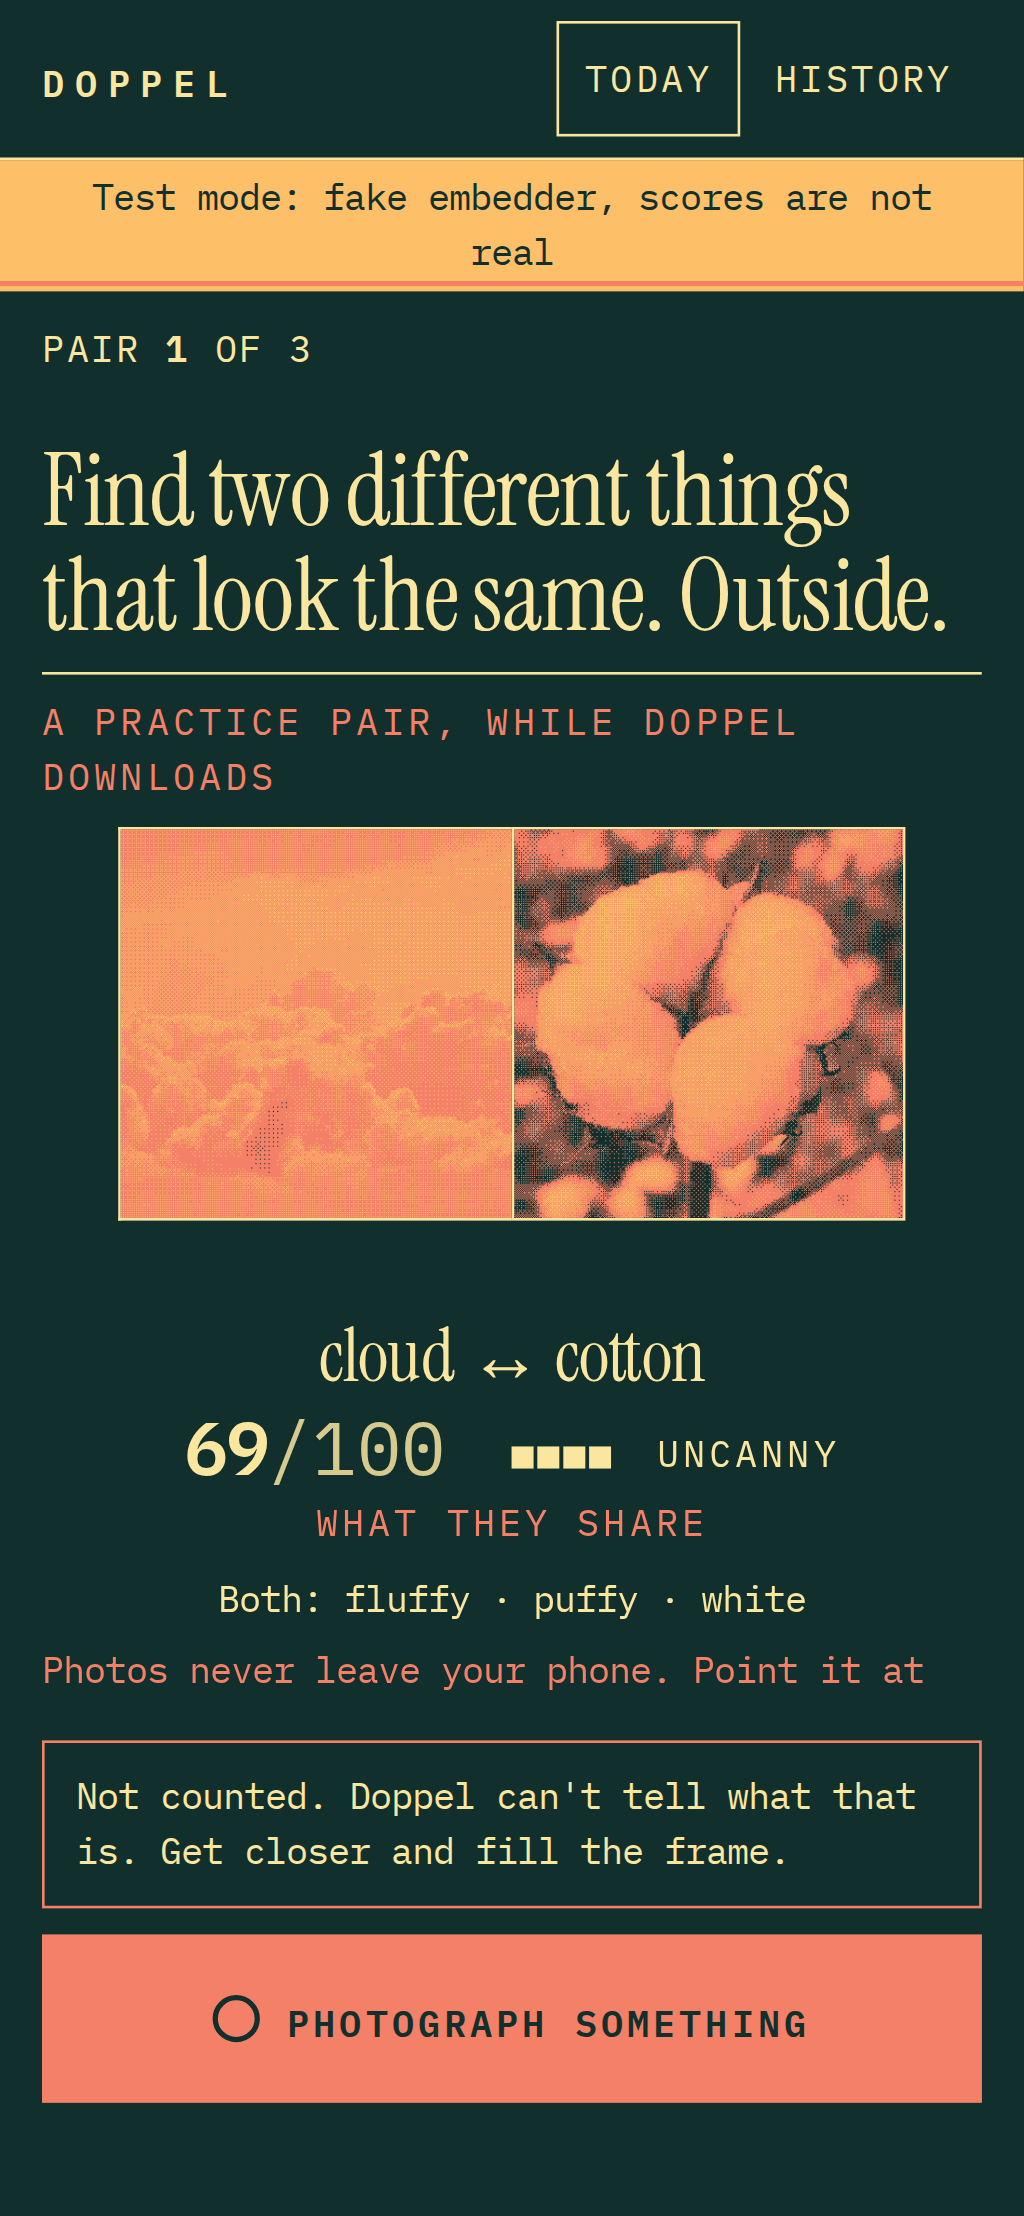
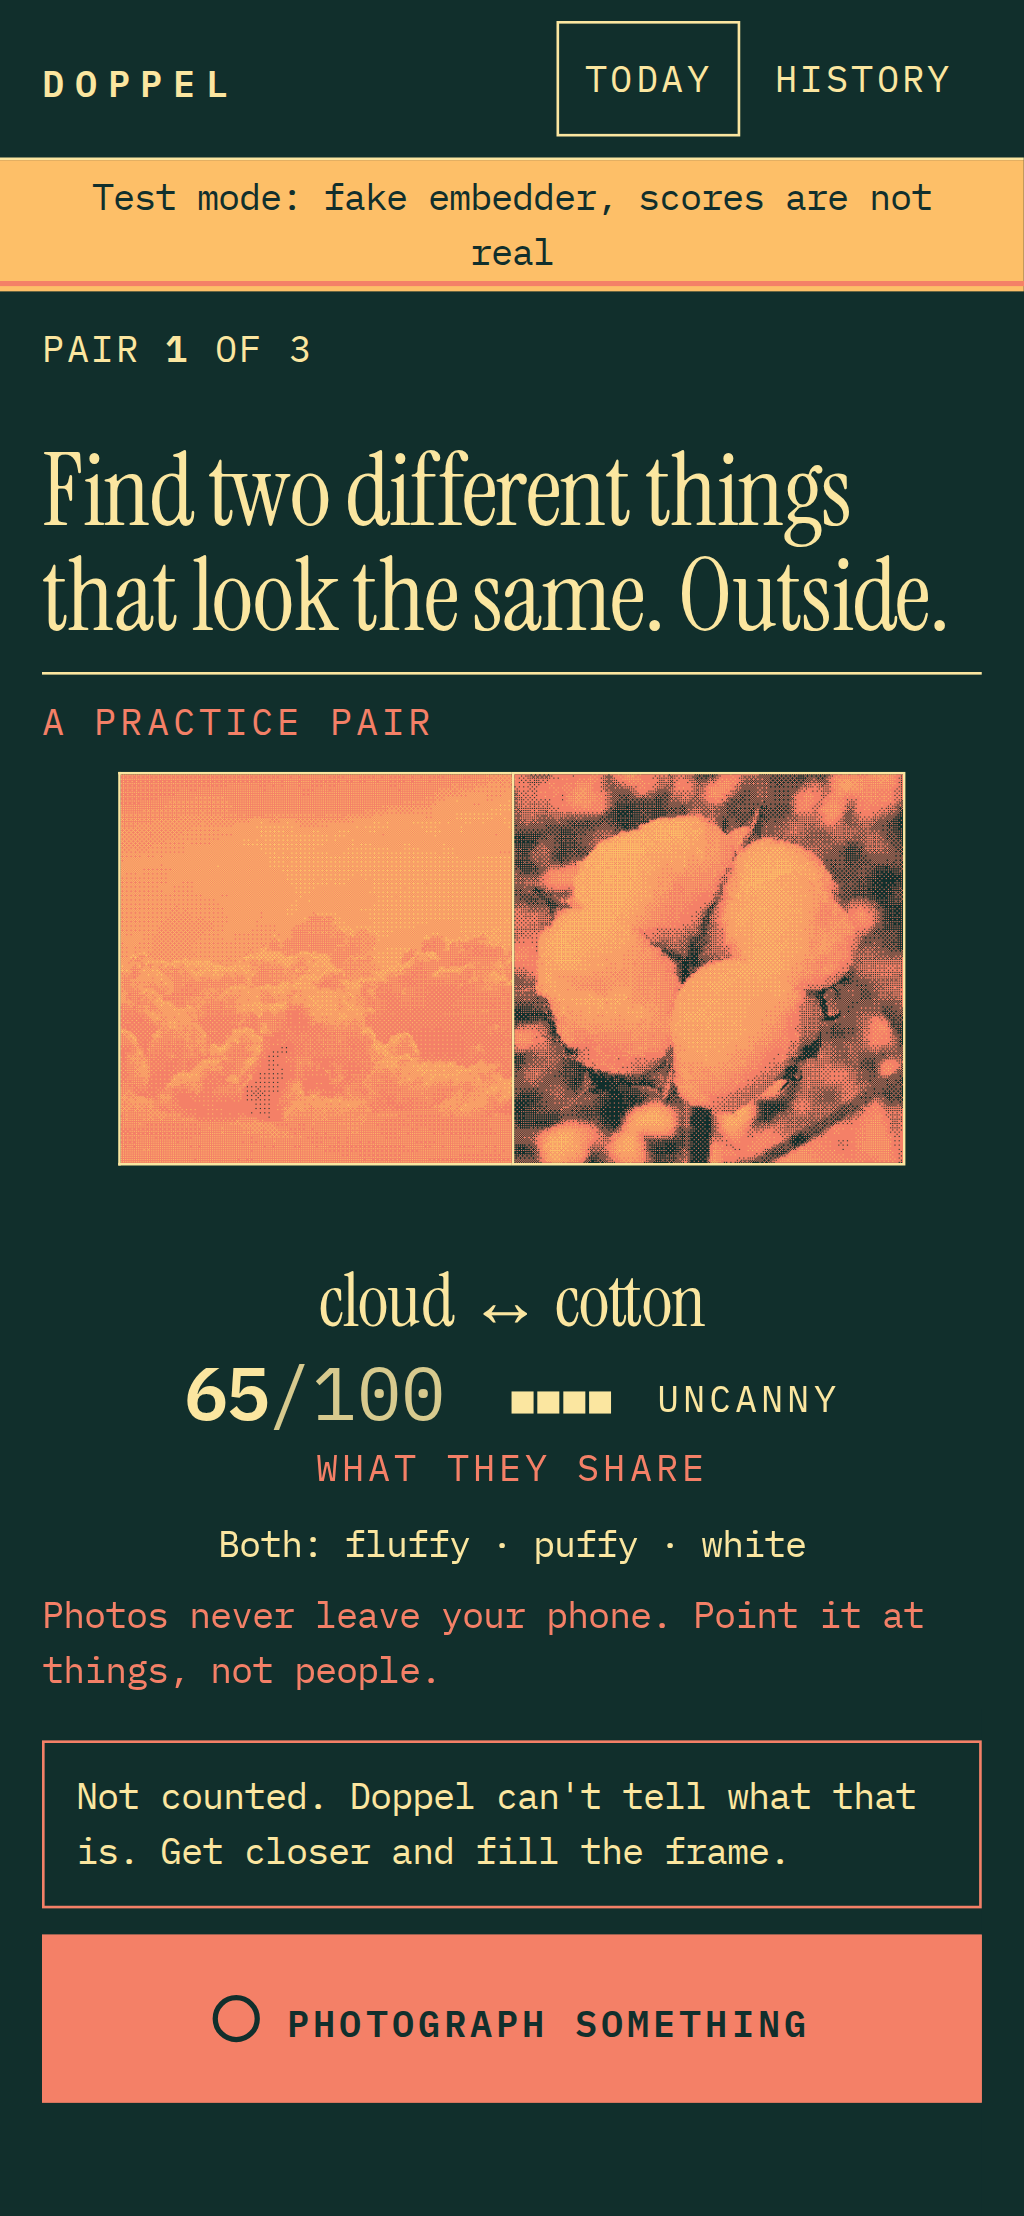
D7/D8: live URL; fix shoot button looking enabled while the model loads; friendlier unsupported-device message

diff --git a/web/tests/e2e/no-webgpu.spec.ts b/web/tests/e2e/no-webgpu.spec.ts
@@ -1,0 +1,14 @@
+import { expect, test } from "@playwright/test";
+
+// A browser that can't run the model: one clear message with a way forward, the practice still plays.
+test("without WebGPU: one friendly message, a dimmed button, the practice still plays @small", async ({ page }) => {
+  await page.addInitScript(() => Object.defineProperty(Navigator.prototype, "gpu", { get: () => undefined, configurable: true }));
+  await page.addInitScript(() => delete (Navigator.prototype as any).gpu);
+  await page.goto("/#/");
+  await expect(page.getByTestId("practice").locator(".score .n")).toHaveText("85", { timeout: 20_000 });
+  const status = page.locator("#model-status");
+  await expect(status).toContainText("This device can't run Doppel's model.");
+  await expect(status).toContainText("Try Chrome on Android");
+  await expect(page.locator("#status")).toBeEmpty();
+  await expect(page.locator(".btn-shoot")).toHaveAttribute("aria-disabled", "true");
+});

diff --git a/web/src/main.ts b/web/src/main.ts
@@ -209,13 +209,14 @@ function wireShoot(seq: number, which: "first" | "twin") {
   const setBusy = (b: boolean) => {
     busy = b;
     input.disabled = b;
-    button.toggleAttribute("aria-disabled", b);
+    button.setAttribute("aria-disabled", String(b)); // CSS dims [aria-disabled="true"]
     button.classList.toggle("is-busy", b);
   };
   setBusy(true);
   Promise.all([loadModelWithStatus(app.querySelector("#model-status")!), loadVocab()])
     .then(() => seq === routeSeq && setBusy(false))
-    .catch((e) => (status.textContent = (e as Error).message));
+    // model errors are already explained in #model-status; only say other failures here
+    .catch((e) => (app.querySelector("#model-status")?.textContent?.trim() ? undefined : (status.textContent = (e as Error).message)));
 
   input.addEventListener("change", async () => {
     const file = input.files?.[0];

diff --git a/web/tests/e2e/first-run.spec.ts b/web/tests/e2e/first-run.spec.ts
@@ -16,6 +16,8 @@ test("practice reveal and privacy line render before the model is ready @small",
   await expect(page.getByText("Photos never leave your phone.")).toBeVisible();
   // the model isn't ready: shooting is disabled and the status says why
   await expect(page.locator("#photo")).toBeDisabled();
+  await expect(page.locator(".btn-shoot")).toHaveAttribute("aria-disabled", "true"); // and it looks disabled
+  await expect(page.locator(".btn-shoot")).toHaveCSS("opacity", "0.5");
   await expect(page.locator("#model-status")).not.toBeEmpty();
   await expect(page.locator(".test-banner")).toHaveCount(0);
   await expectAccessible(page, "first-run");

diff --git a/web/src/ui/model-status.ts b/web/src/ui/model-status.ts
@@ -30,7 +30,7 @@ export async function loadModelWithStatus(el: HTMLElement): Promise<void> {
     show("");
   } catch (e) {
     const msg = e instanceof UnsupportedError
-      ? e.message
+      ? `This device can't run Doppel's model. ${e.message.includes("Try ") ? e.message : `${e.message} Try Chrome on Android, or a recent desktop browser.`}`
       : isQuotaError(e)
         ? `There isn't enough free storage on this device to save the ${MODEL_SIZE_LABEL} model. Free up some space (or leave private browsing) and try again.`
         : `The model couldn't load: ${(e as Error).message}`;

diff --git a/web/src/ui/screens.ts b/web/src/ui/screens.ts
@@ -61,7 +61,7 @@ export function practiceView(p: Practice): string {
   const b = band(p.score);
   return `
     <div class="practice" aria-label="Practice reveal" data-testid="practice">
-      <p class="label">A practice pair, while Doppel downloads</p>
+      <p class="label">A practice pair</p>
       <div class="pair together" id="practice-pair">
         ${slot("a", `<canvas id="practice-a" aria-label="${esc(p.first.label)}, printed"></canvas>`)}
         ${slot("b", `<canvas id="practice-b" aria-label="${esc(p.twin.label)}, printed"></canvas>`)}

diff --git a/README.md b/README.md
@@ -14,7 +14,7 @@ Three pairs a day, about 10 to 15 minutes, then "Done for today". You can't lose
 
 Built Oct 10 to 11, 2026 for DEV Hacktoberfest Week 1 ("Touch Grass").
 
-- **Live:** {{V: live URL}}
+- **Live:** https://doppel-ws59.onrender.com
 - **Write-up:** {{V: DEV post URL}}
 
 ## How to play
